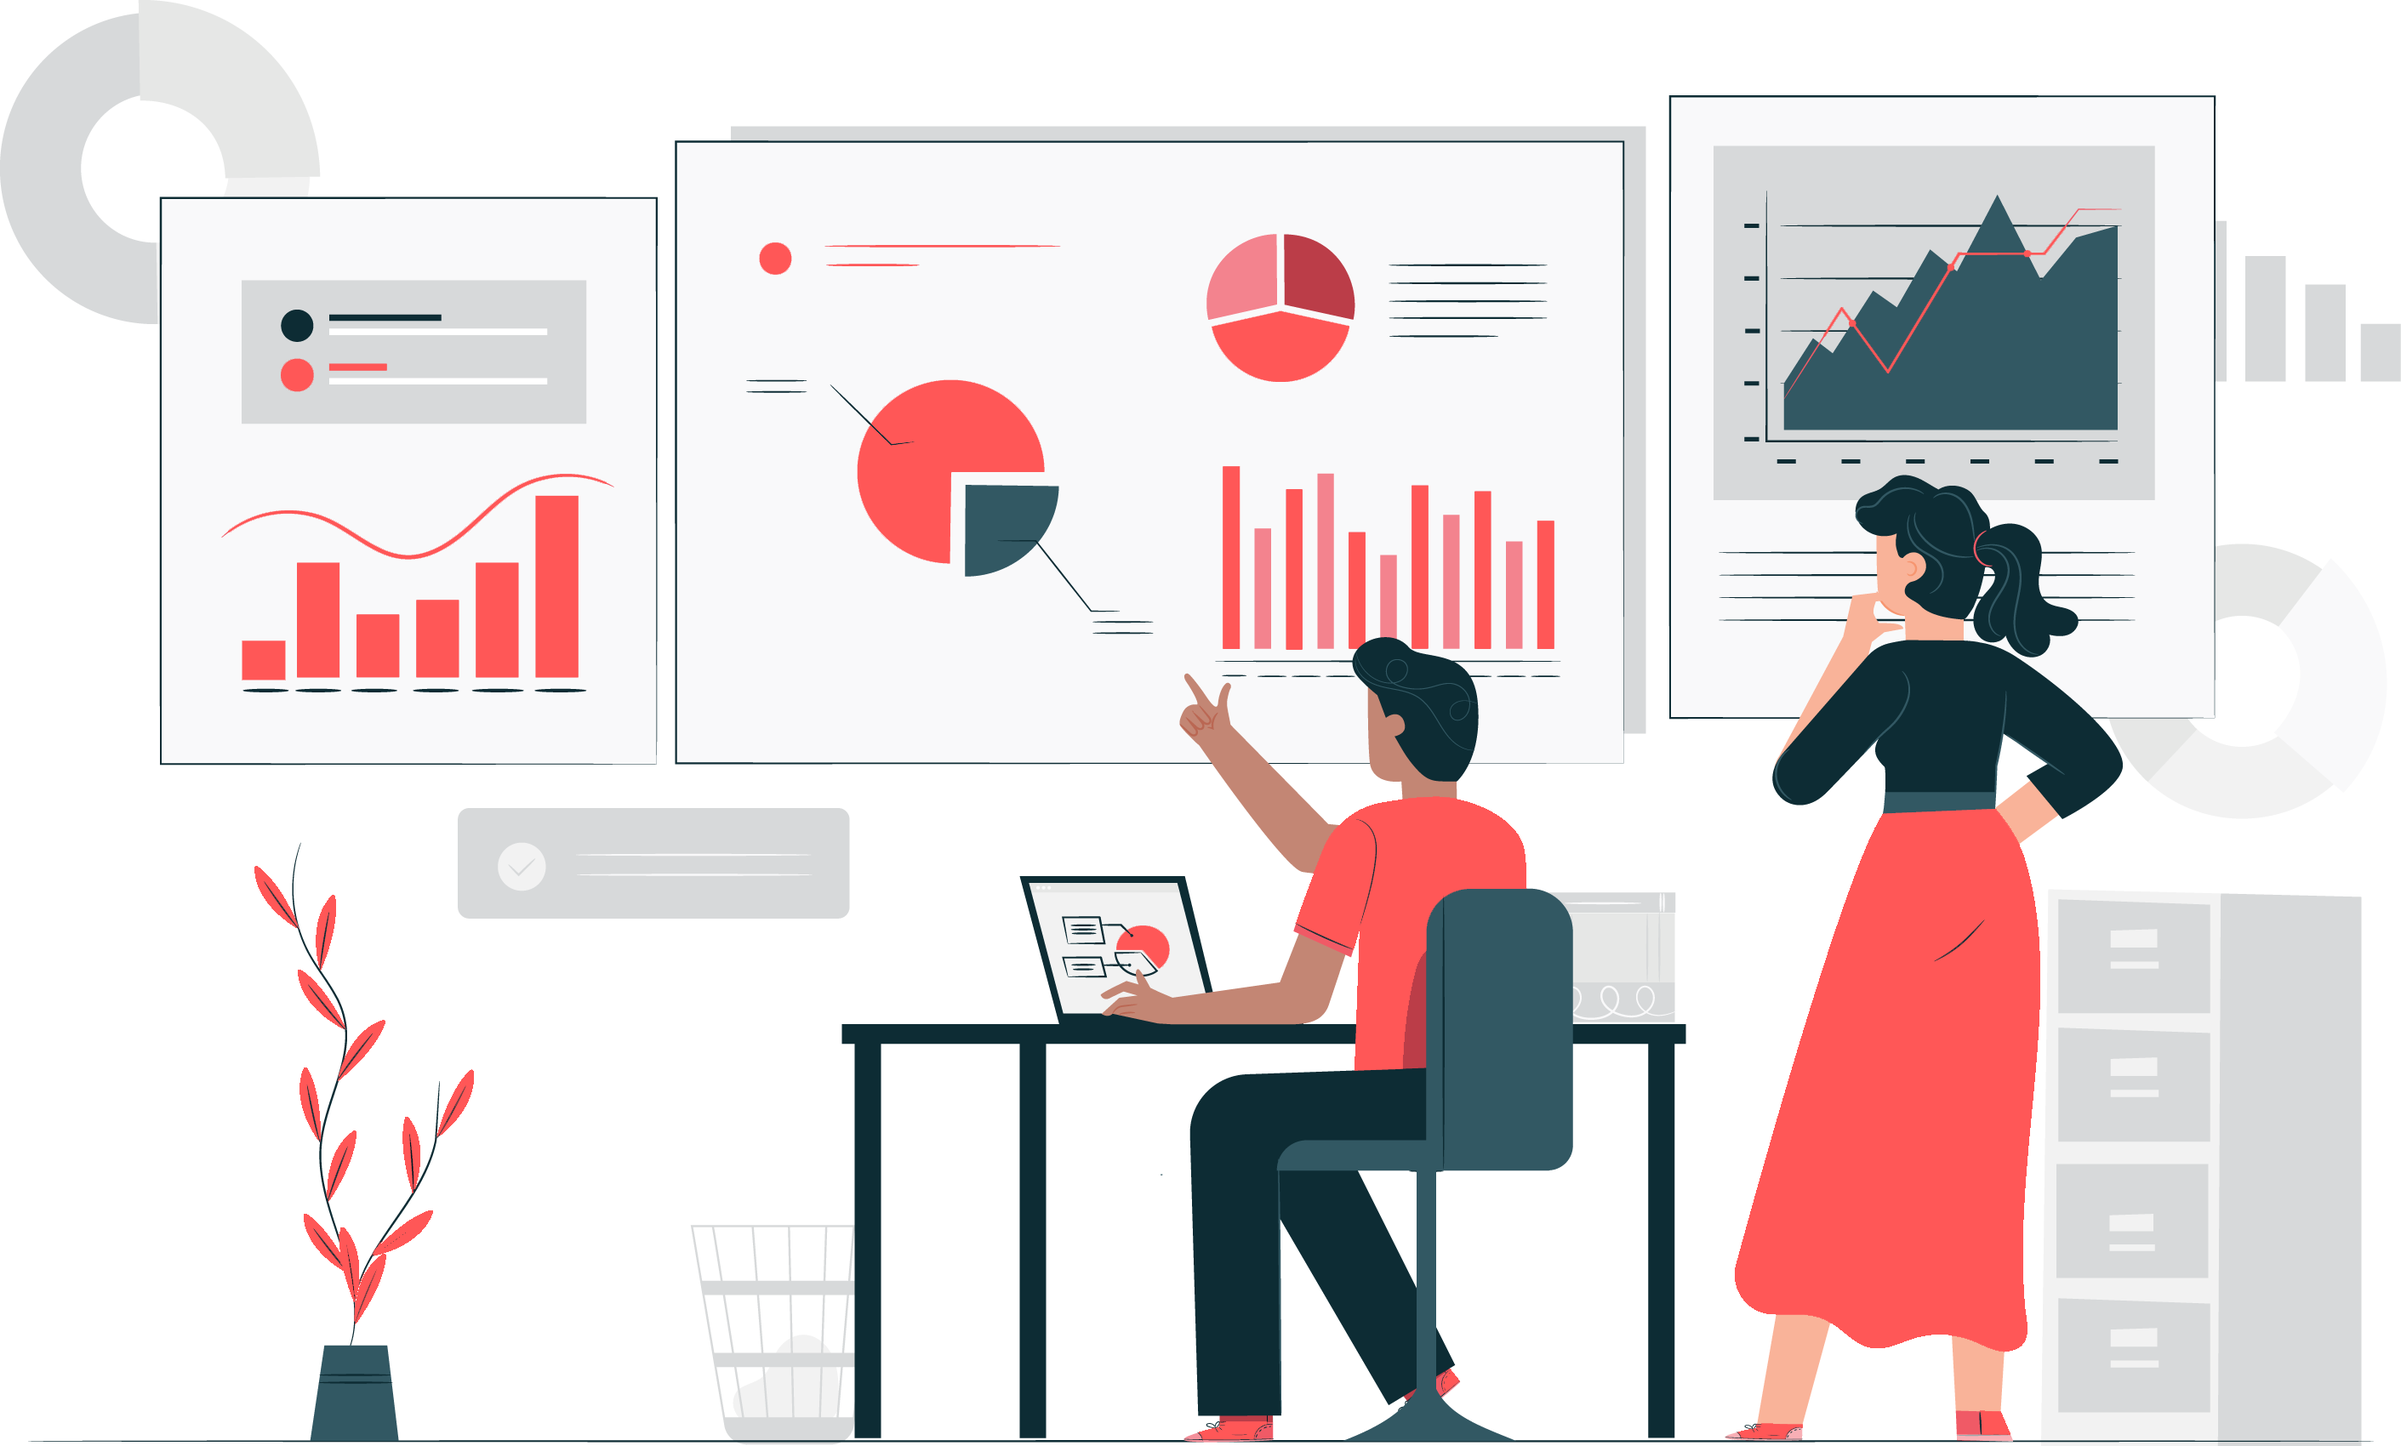
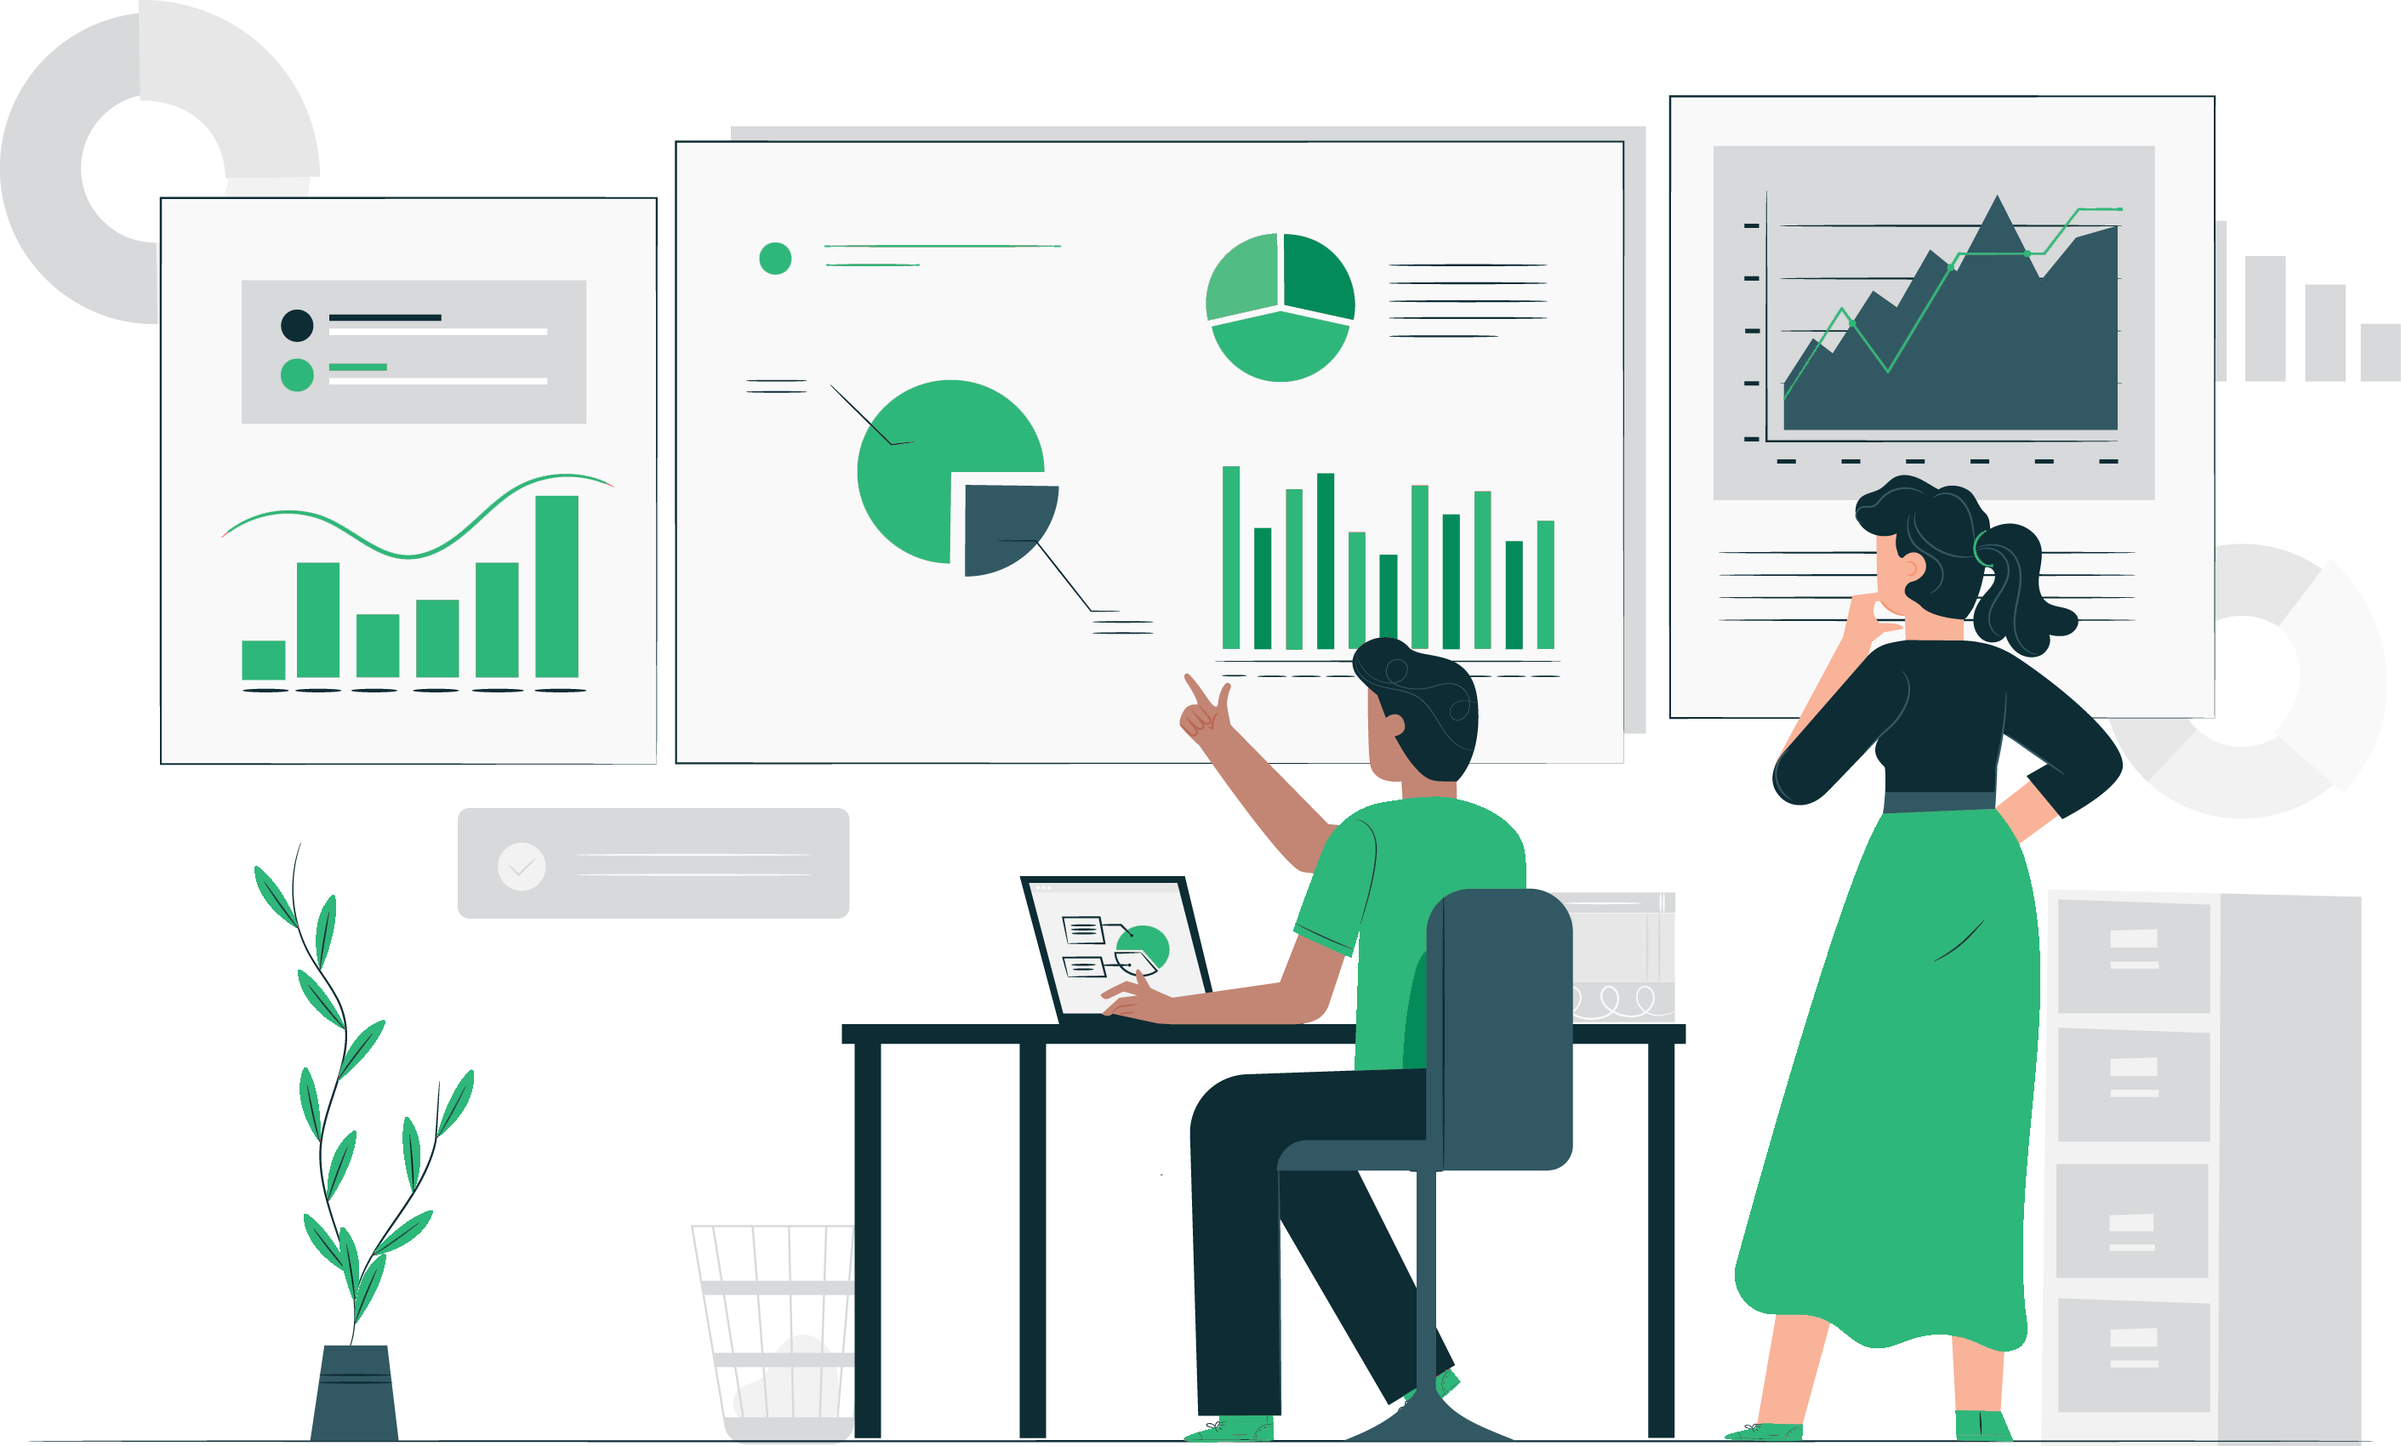
Color scheme change

diff --git a/components/LinqFeatures.tsx b/components/LinqFeatures.tsx
@@ -1,8 +1,8 @@
 const LinqFeatures = () => {
   return (
-    <main className="md:my-20 my-10 md:mx-20 flex w-full md:flex-wrap overflow-x-auto md:overflow-hidden space-x-2 md:space-x-6">
+    <main className="md:my-20 mt-20 md:mx-20 flex flex-col md:flex-row items-center justify-between space-y-6 md:space-y-0">
         {/* REPLACE THESE CARDS BY MAPPING */}
-      <section className="bg-[#ffffff] flex flex-shrink-0 flex-col items-center drop-shadow-xl h-[48rem] md:h-[32rem] w-64 md:w-[30%] rounded-xl p-8">
+      <section className="bg-[#fdfdfd] flex flex-col items-center drop-shadow-xl h-[32rem] w-full md:w-[30%] rounded-xl p-8">
         <h1 className="text-2xl font-bold py-4">URL Shortener</h1>
         <p className="text-justify">
           Lorem Ipsum is simply dummy text of the printing and typesetting
@@ -10,14 +10,11 @@ const LinqFeatures = () => {
           since the 1500s, when an unknown printer took a galley of type and
           scrambled it to make a type specimen book. It has survived not only
           five centuries, but also the leap into electronic typesetting,
-          remaining essentially unchanged. It was popularised in the 1960s with
-          the release of Letraset sheets containing Lorem Ipsum passages, and
-          more recently with desktop publishing software like Aldus PageMaker
-          including versions of Lorem Ipsum.
-        </p>
+          remaining essentially unchanged. 
+          </p>
       </section>
 
-      <section className="bg-[#ffffff] flex flex-shrink-0 flex-col items-center drop-shadow-xl  h-[48rem] md:h-[32rem] w-64 md:w-[30%] rounded-xl p-8">
+      <section className="bg-[#fdfdfd] flex flex-col items-center drop-shadow-xl  h-[32rem] w-full md:w-[30%] rounded-xl p-8">
         <h1 className="text-2xl font-bold py-4">QR Code</h1>
         <p className="text-justify">
           Lorem Ipsum is simply dummy text of the printing and typesetting
@@ -25,25 +22,19 @@ const LinqFeatures = () => {
           since the 1500s, when an unknown printer took a galley of type and
           scrambled it to make a type specimen book. It has survived not only
           five centuries, but also the leap into electronic typesetting,
-          remaining essentially unchanged. It was popularised in the 1960s with
-          the release of Letraset sheets containing Lorem Ipsum passages, and
-          more recently with desktop publishing software like Aldus PageMaker
-          including versions of Lorem Ipsum.
+          remaining essentially unchanged. 
         </p>
       </section>
 
-      <section className="bg-[#ffffff] flex flex-shrink-0 flex-col items-center drop-shadow-xl  h-[48rem] md:h-[32rem] w-64 md:w-[30%] rounded-xl p-8">
-        <h1 className="text-2xl font-bold py-4">Analytics</h1>
+      <section className="bg-[#fdfdfd] flex flex-col items-center drop-shadow-xl  h-[32rem] w-full md:w-[30%] rounded-xl p-8">
+        <h1 className="text-2xl font-bold py-4">Link Analytics</h1>
         <p className="text-justify">
           Lorem Ipsum is simply dummy text of the printing and typesetting
           industry. Lorem Ipsum has been the industry&apos;s standard dummy text ever
           since the 1500s, when an unknown printer took a galley of type and
           scrambled it to make a type specimen book. It has survived not only
           five centuries, but also the leap into electronic typesetting,
-          remaining essentially unchanged. It was popularised in the 1960s with
-          the release of Letraset sheets containing Lorem Ipsum passages, and
-          more recently with desktop publishing software like Aldus PageMaker
-          including versions of Lorem Ipsum.
+          remaining essentially unchanged. 
         </p>
       </section>
     </main>

diff --git a/app/globals.css b/app/globals.css
@@ -17,7 +17,7 @@
 }
 
 body {
-  @apply bg-[#f9f9f9] md:container md:mx-auto mx-6 overflow-x-hidden 
+  @apply bg-[#fafafa] md:container md:mx-auto mx-6 overflow-x-hidden 
   /* color: rgb(var(--foreground-rgb));
   background: linear-gradient(
       to bottom,
@@ -38,21 +38,26 @@ body {
 }
 
 .button {
-  @apply cursor-pointer bg-[#FF5757] text-white font-semibold rounded-md p-3 items-center transition ease-in-out delay-100 hover:bg-[#e12c2c] duration-300 ;
+  @apply cursor-pointer bg-[#2EB77A] text-white font-semibold rounded-md p-3 items-center transition ease-in-out delay-100 hover:bg-[#038C5A] duration-300 ;
 }
 
 .button_stroke {
-  @apply cursor-pointer hover:border-[#FF5757] text-black hover:text-[#FF5757] hover:border-b-4 rounded-sm font-semibold p-3 items-center;
+  @apply cursor-pointer hover:border-[#2EB77A] text-black hover:text-[#2EB77A] hover:border-b-4 ease-in-out duration-100 rounded-sm font-semibold p-3 items-center;
 }
 
 .url_button {
-  @apply cursor-pointer h-10 md:h-[4rem] bg-[#FF5757] text-sm md:text-lg text-white font-semibold rounded-xl md:px-6 md:py-3 py-2 px-3 items-center transition ease-in-out delay-100 hover:bg-[#e12c2c] duration-300;
+  @apply cursor-pointer h-10 md:h-[4rem] bg-[#2EB77A] text-sm md:text-lg text-white font-semibold rounded-xl md:px-6 md:py-3 py-2 px-3 items-center transition ease-in-out delay-100 hover:bg-[#038C5A] duration-300;
 }
 
 .hbutton_border {
-  @apply cursor-pointer border-[#FF5757] md:text-xl text-lg transition ease-in-out delay-100 hover:-translate-y-1 hover:scale-105 hover:bg-[#e12c2c] hover:text-white hover:border-none md:py-4 md:px-20 py-2 px-10 text-[#FF5757] border-2 rounded-md font-semibold items-center;
+  @apply cursor-pointer border-[#2EB77A] md:text-xl text-lg transition ease-in-out delay-100 hover:scale-105 hover:bg-[#038C5A] hover:text-white hover:border-none md:py-4 md:px-20 py-2 px-10 text-[#2EB77A] border-2 rounded-md font-semibold items-center;
 }
 
 .hbutton {
-  @apply cursor-pointer bg-[#FF5757] md:text-xl text-lg transition ease-in-out delay-100 hover:-translate-y-1 hover:scale-105 hover:bg-[#e12c2c] duration-300 md:py-4 md:px-20 py-2 px-10 text-white font-semibold rounded-md items-center;
+  @apply cursor-pointer bg-[#2EB77A] md:text-xl text-lg transition ease-in-out delay-100  hover:scale-105 hover:bg-[#038C5A] duration-300 md:py-4 md:px-20 py-2 px-10 text-white font-semibold rounded-md items-center;
 }
+
+.bdbutton {
+  @apply cursor-pointer bg-white md:text-xl text-lg transition ease-in-out delay-100  hover:scale-105 hover:bg-[#038C5A] duration-300 md:py-4 md:p-20 py-2 px-10 text-[#2EB77A] font-semibold rounded-md items-center;
+}
+

diff --git a/components/MobileMenu.tsx b/components/MobileMenu.tsx
@@ -8,17 +8,17 @@ const MobileMenu = () => {
     <main>
         <div className='flex flex-col gap-[4.5px] cursor-pointer'
         onClick={() => setIsOpen(prev => !prev)}>
-            <div className={`w-6 h-1 bg-[#FF5757] rounded-sm ${isOpen ? "rotate-45" : ""} origin-left ease-in-out duration-500`} />
-            <div className={`w-6 h-1 bg-[#FF5757] rounded-sm ${isOpen ? "opacity-0" : ""}`} />
-            <div className={`w-6 h-1 bg-[#FF5757] rounded-sm ${isOpen ? "-rotate-45" : ""} origin-left ease-in-out duration-500`} />
+            <div className={`w-6 h-1 bg-[#2EB77A] rounded-sm ${isOpen ? "rotate-45" : ""} origin-left ease-in-out duration-500`} />
+            <div className={`w-6 h-1 bg-[#2EB77A] rounded-sm ${isOpen ? "opacity-0" : ""}`} />
+            <div className={`w-6 h-1 bg-[#2EB77A] rounded-sm ${isOpen ? "-rotate-45" : ""} origin-left ease-in-out duration-500`} />
         </div>
     {isOpen && (
-        <div className='absolute top-24 left-0 w-full h-[calc(100vh-96px)] ease-in duration-200 bg-[#FF5757] flex flex-col items-center justify-center gap-8'>
+        <div className='absolute top-24 left-0 w-full h-[calc(30vh-96px)] ease-in duration-200 bg-gray-800 flex flex-col items-center justify-center gap-4'>
            <Link href="/signin">
-            <div className="text-white font-semibold">Sign In</div>
+            <div className="text-white font-semibold hover:text-[#2EB77A]">Sign In</div>
           </Link>
           <Link href="/signup">
-            <div className="text-white font-semibold">Get Started</div>
+            <div className="text-white font-semibold hover:text-[#2EB77A]">Get Started</div>
           </Link>
         </div>
     )}

diff --git a/components/BriefDescription.tsx b/components/BriefDescription.tsx
@@ -1,0 +1,31 @@
+import React from "react";
+
+const BriefDescription = () => {
+  return (
+    <main className="bg-[#2EB77A] h-[60vh] rounded-xl my-20 -mx-[15%]">
+      <div className="mx-[15%] flex my-16 justify-between items-center ">
+        <section className="md:max-w-[50%] w-full">
+          <h2 className="md:text-3xl text-xl font-bold text-white mb-6">
+            <span className="text-[#F2E3D0] italic">Advanced</span>
+            <br /> Link Management Solutions.
+          </h2>
+          <p className="text-white text-justify text-sm md:text-base">
+            Linqtrim goes beyond being a simple URL shortener; it&apos;s a
+            full-featured Link Shortening and Management Platform. With
+            Linqtrim, you can create branded short links using your own custom
+            domain. Perfect for bloggers, marketers, affiliates, and businesses
+            of any size, Linqtrim offers total control over your short links.
+            Its features include an advanced URL Shortener, Link Analytics, and
+            QR codes. Use Linqtrim to maximize your links&apos; potential and enhance
+            your online presence.
+          </p>
+          <button className="bdbutton text-left my-6">Linqtrim - All features</button>
+        </section>
+
+        <section className="hidden md:flex">Image here</section>
+      </div>
+    </main>
+  );
+};
+
+export default BriefDescription;

diff --git a/components/HeroSection.tsx b/components/HeroSection.tsx
@@ -3,7 +3,7 @@ import Image from "next/image";
 const HeroSection = () => {
   return (
     <main
-      className="flex md:pt-20 pt-10 md:mx-20"
+      className="flex md:pt-20 pt-16 md:mx-32 mx-4"
     >
       <div className="flex items-center justify-between max-h-[50%]">
 
@@ -11,7 +11,7 @@ const HeroSection = () => {
       <section className="max-w-[32rem] items-center md:items-start">
         <h1 className="h1 py-4">
           Shorten links{" "}
-          <span className="italic text-[#FF5757]">effortlessly</span>
+          <span className="italic text-[#2EB77A]">effortlessly</span>
           <br /> and stay in control
         </h1>
         <p className="text-justify md:text-base text-sm">
@@ -20,7 +20,7 @@ const HeroSection = () => {
           and more. Effortlessly start shortening and tracking your links.
         </p>
 
-        <div className="space-x-4 my-8">
+        <div className="my-8 flex flex-col md:flex-row justify-between items-center space-y-6 md:space-y-0">
           <button className="hbutton">Sign up</button>
           <button className="hbutton_border">Sign in</button>
         </div>

diff --git a/components/InputURL.tsx b/components/InputURL.tsx
@@ -5,7 +5,7 @@ const InputURL = () => {
         <input
           type="text"
           placeholder="Paste long URL"
-          className="flex pl-4 py-3 pr-32 md:placeholder:text-base placeholder:text-sm focus:outline-none md:h-20 h-14 min-w-[100%] rounded-xl bg-white"
+          className="flex pl-4 py-3 pr-32 md:placeholder:text-base placeholder:text-sm focus:outline-none md:h-20 h-14 min-w-[100%] rounded-xl bg-[#fdfdfd]"
         />
         <button className="url_button absolute right-2 self-center">
           Shorten
@@ -13,8 +13,8 @@ const InputURL = () => {
       </div>
       <p className="self-center text-xs text-center md:text-base">
         By using our service you accept the{" "}
-        <span className="font-semibold text-[#FF5757]">Terms of service</span>{" "}
-        and <span className="font-semibold text-[#FF5757]">Privacy Policy</span>
+        <span className="font-semibold text-[#2EB77A]">Terms of service</span>{" "}
+        and <span className="font-semibold text-[#2EB77A]">Privacy Policy</span>
       </p>
     </main>
   );

diff --git a/components/Navbar.tsx b/components/Navbar.tsx
@@ -14,7 +14,7 @@ const Navbar = () => {
               width={200}
               height={200}
               alt="Linqtrim Logo"
-              className="md:w-48 md:h-12 w-24 h-6 md:-ml-[0.4rem] -ml-[0.2rem]"
+              className="md:w-48 md:h-12 w-24 h-6 md:-ml-[0.4rem] -ml-[0.2rem] hover:scale-105 ease-in-out duration-500"
             />
           </section>
         </Link>
@@ -34,7 +34,7 @@ const Navbar = () => {
           </div>
         </section>
       </main>
-      <p className="border-b border-gray-200 -mx-96" />
+      <p className="border-b border-gray-200 -mx-[100%]" />
     </main>
   );
 };

diff --git a/app/page.tsx b/app/page.tsx
@@ -1,3 +1,4 @@
+import BriefDescription from "@/components/BriefDescription";
 import HeroSection from "@/components/HeroSection";
 import InputURL from "@/components/InputURL";
 import LinqFeatures from "@/components/LinqFeatures";
@@ -7,6 +8,7 @@ export default function Home() {
     <main className="flex flex-col min-h-screen">
       <HeroSection />
       <InputURL />
+      <BriefDescription />
       <LinqFeatures />
     </main>
   );

diff --git a/app/layout.tsx b/app/layout.tsx
@@ -26,7 +26,7 @@ export default function RootLayout({
 }>) {
   return (
     <html lang="en">
-      <body className={poppins.className}>
+      <body className={` ${poppins.className}`}>
         <Navbar />
         {children}
       </body>
